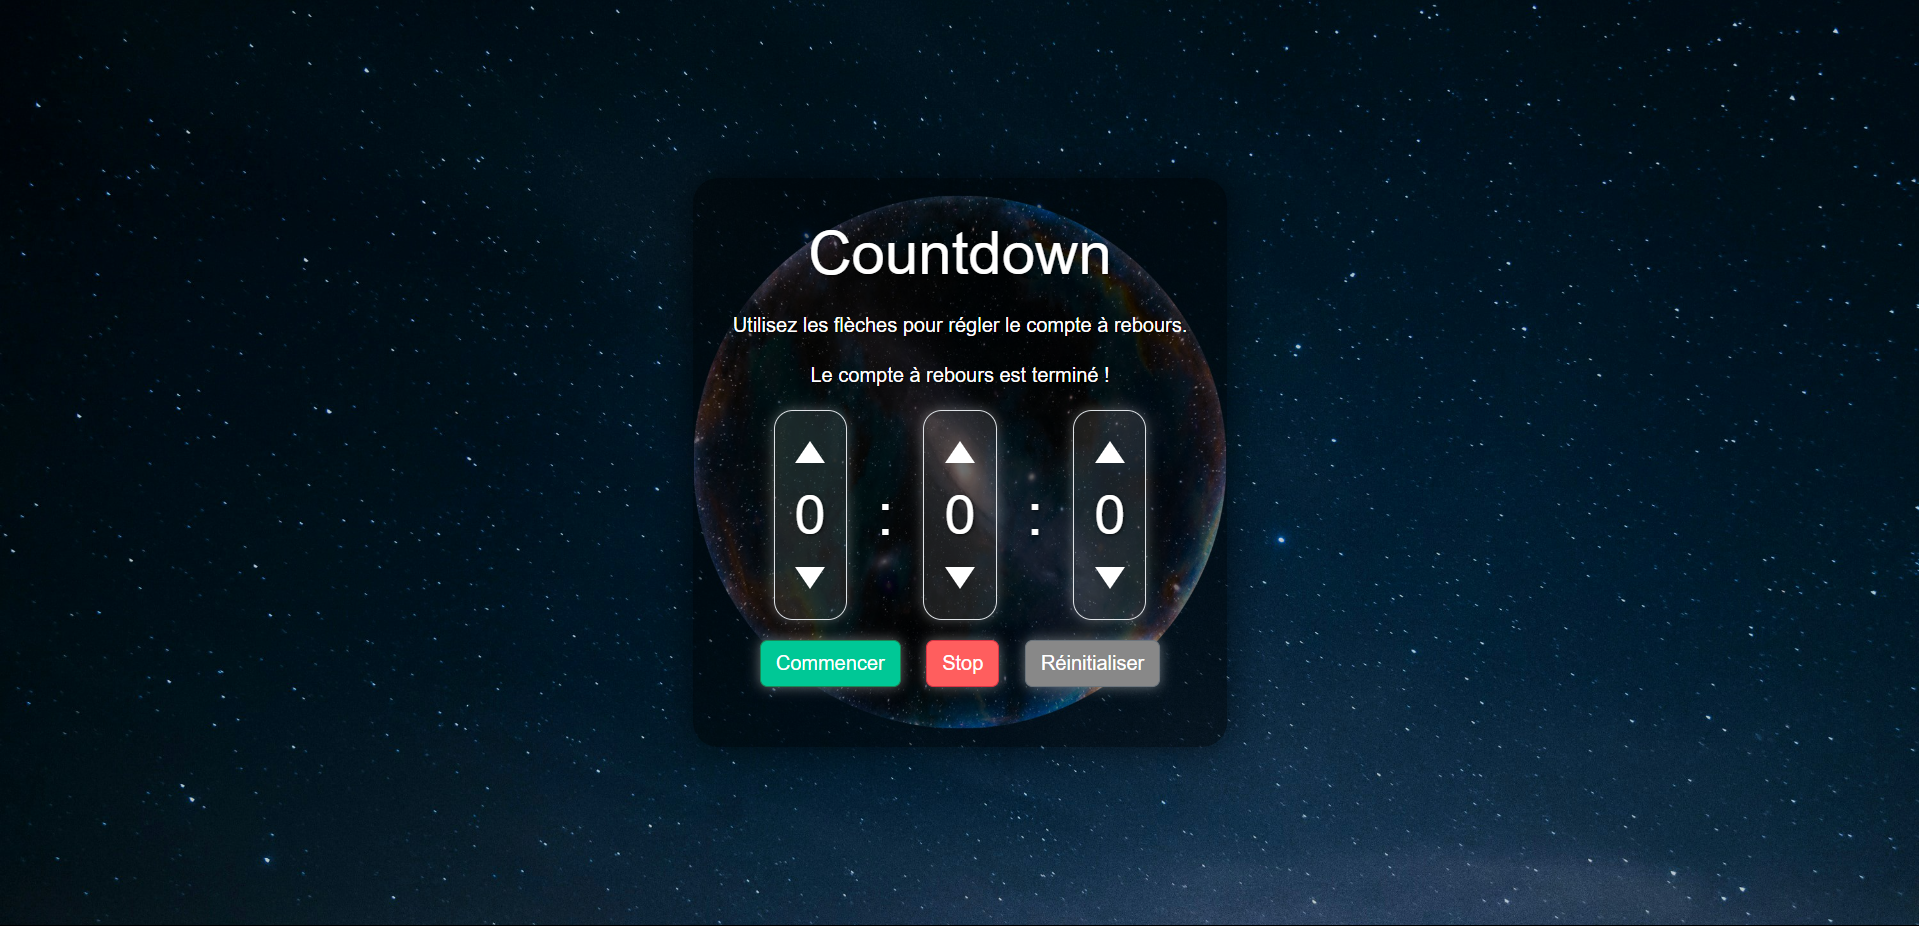
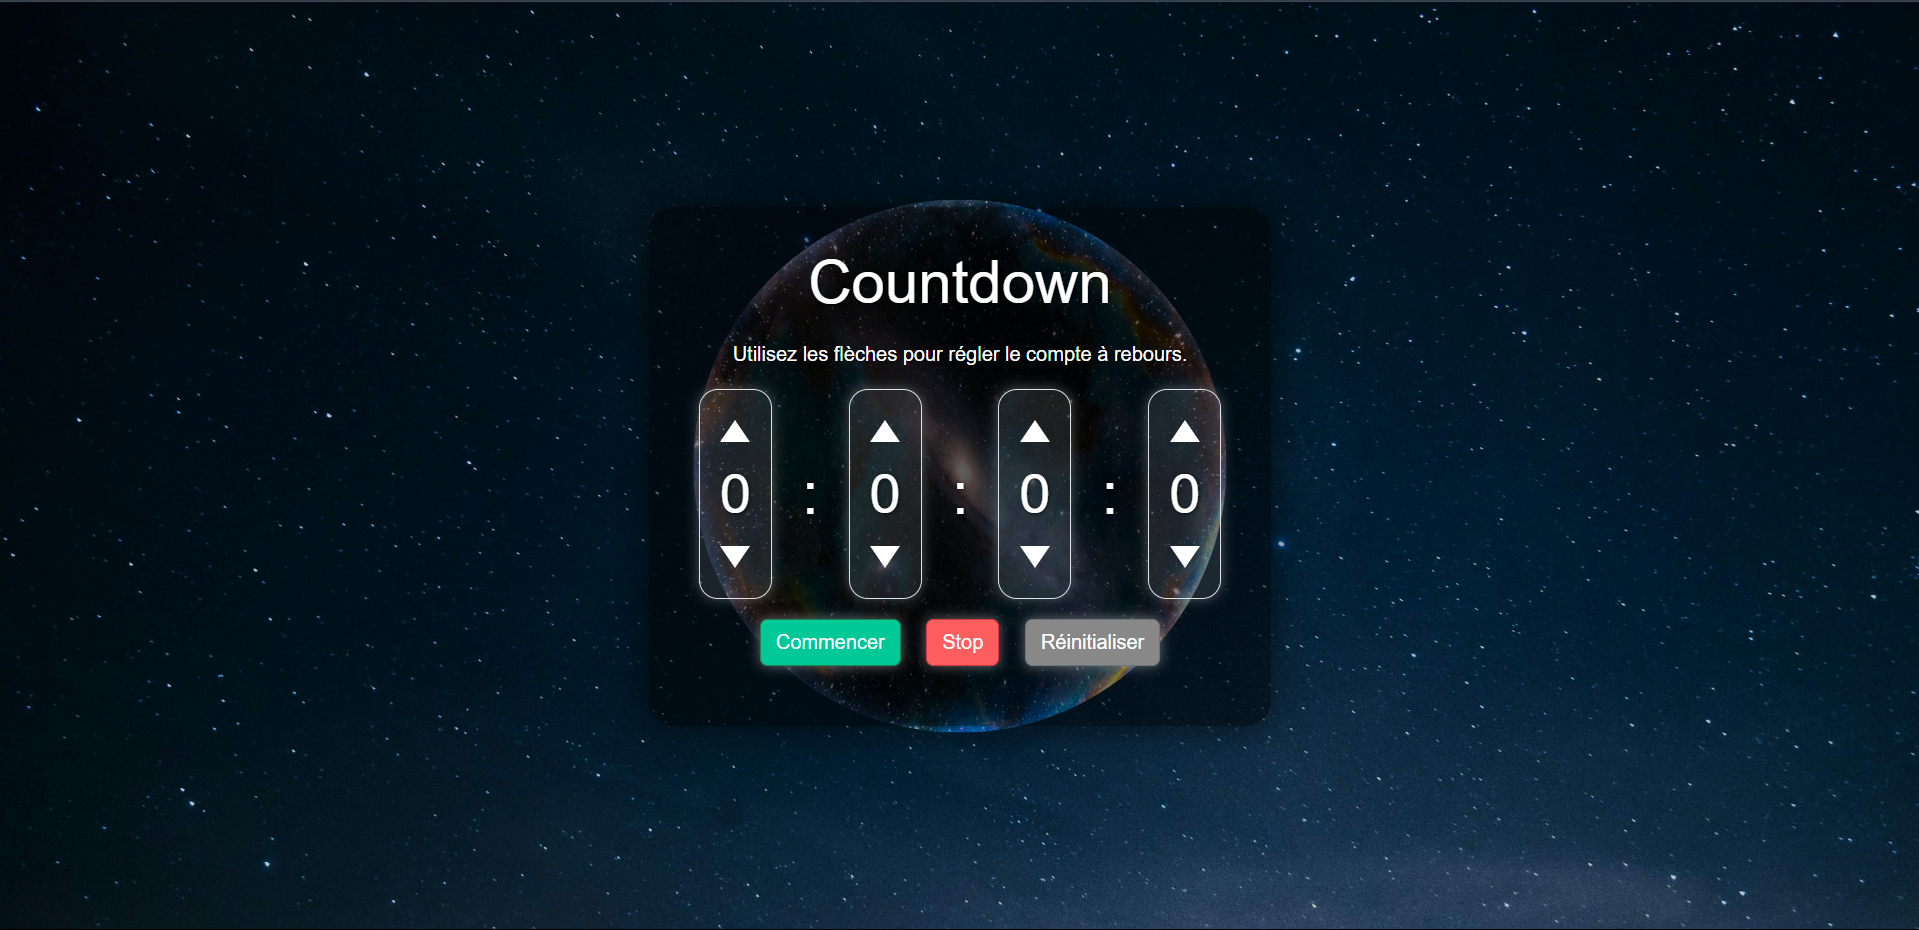
Ajout de jour

diff --git a/scripts/index.js b/scripts/index.js
@@ -1,3 +1,5 @@
+const arrow_up_day = document.getElementById('arrow-up-day');
+const arrow_down_day = document.getElementById('arrow-down-day');
 const arrow_up_hour = document.getElementById('arrow-up-hour');
 const arrow_down_hour = document.getElementById('arrow-down-hour');
 const arrow_up_minute = document.getElementById('arrow-up-minutes');
@@ -7,12 +9,29 @@ const arrow_down_second = document.getElementById('arrow-down-seconds');
 const start = document.getElementById('start');
 const stop = document.getElementById('stop');
 const reset = document.getElementById('reset');
+let days = document.getElementById('number-days');
 let hours = document.getElementById('number-hours');
 let minutes = document.getElementById('number-minutes');
 let seconds = document.getElementById('number-seconds');
 let countdown_finished = document.getElementById('countdown-finished');
 
-// Flèches pour ajouter heures
+// Flèches pour ajouter des jours
+arrow_up_day.addEventListener('click', () => {
+  days.textContent = String(parseInt(days.textContent) + 1);
+  if (parseInt(days.textContent) > 366) {
+    days.textContent = '0';
+  }
+});
+
+// Flèches pour retirer des jours
+arrow_down_day.addEventListener('click', () => {
+  days.textContent = String(parseInt(days.textContent) - 1);
+  if (parseInt(days.textContent) < 0) {
+    days.textContent = '366';
+  }
+});
+
+// Flèches pour ajouter des heures
 arrow_up_hour.addEventListener('click', () => {
   hours.textContent = String(parseInt(hours.textContent) + 1);
   if (parseInt(hours.textContent) > 23) {
@@ -20,7 +39,7 @@ arrow_up_hour.addEventListener('click', () => {
   }
 });
 
-// Flèches pour retirer heures
+// Flèches pour retirer des heures
 arrow_down_hour.addEventListener('click', () => {
   hours.textContent = String(parseInt(hours.textContent) - 1);
   if (parseInt(hours.textContent) < 0) {
@@ -28,7 +47,7 @@ arrow_down_hour.addEventListener('click', () => {
   }
 });
 
-// Flèches pour ajouter minutes
+// Flèches pour ajouter des minutes
 arrow_up_minute.addEventListener('click', () => {
   minutes.textContent = String(parseInt(minutes.textContent) + 1);
   if (parseInt(minutes.textContent) > 59) {
@@ -36,7 +55,7 @@ arrow_up_minute.addEventListener('click', () => {
   }
 });
 
-// Flèches pour retirer minutes
+// Flèches pour retirer des minutes
 arrow_down_minute.addEventListener('click', () => {
   minutes.textContent = String(parseInt(minutes.textContent) - 1);
   if (parseInt(minutes.textContent) < 0) {
@@ -44,7 +63,7 @@ arrow_down_minute.addEventListener('click', () => {
   }
 });
 
-// Flèches pour ajouter secondes
+// Flèches pour ajouter des secondes
 arrow_up_second.addEventListener('click', () => {
   seconds.textContent = String(parseInt(seconds.textContent) + 1);
   if (parseInt(seconds.textContent) > 59) {
@@ -52,7 +71,7 @@ arrow_up_second.addEventListener('click', () => {
   }
 });
 
-// Flèches pour retirer secondes
+// Flèches pour retirer des secondes
 arrow_down_second.addEventListener('click', () => {
   seconds.textContent = String(parseInt(seconds.textContent) - 1);
   if (parseInt(seconds.textContent) < 0) {
@@ -74,6 +93,11 @@ start.addEventListener('click', () => {
       hours.textContent = String(parseInt(hours.textContent) - 1);
       minutes.textContent = '59';
       seconds.textContent = '59';
+    } else if (parseInt(days.textContent) > 0) {
+      days.textContent = String(parseInt(days.textContent) - 1);
+      hours.textContent = '23';
+      minutes.textContent = '59';
+      seconds.textContent = '59';
     } else {
       clearInterval(countdownInterval);
       countdownInterval = null;
@@ -92,6 +116,7 @@ stop.addEventListener('click', () => {
 reset.addEventListener('click', () => {
   clearInterval(countdownInterval);
   countdownInterval = null;
+  days.textContent = '0';
   hours.textContent = '0';
   minutes.textContent = '0';
   seconds.textContent = '0';

diff --git a/index.html b/index.html
@@ -16,6 +16,34 @@
         <p>Utilisez les flèches pour régler le compte à rebours.</p>
         <p id="countdown-finished"></p>
         <div class="countdown">
+            <!-- Jours -->
+            <div class="border">
+                <!-- Flèche haut -->
+                <section class="arrows arrows-up" id="arrow-up-day">
+                    <!-- Flèche haut (Contenue) -->
+                    <article><i class="arrow up"></i></article>
+                </section>
+
+                <!-- Numéro des jours -->
+                <section class="number">
+                    <!-- Bordure -->
+                    <article></article>
+
+                    <!-- Numéro des jours (Contenue) -->
+                    <article><p name="number-days" id="number-days">0</p></article>  
+                </section>
+
+                <!-- Flèche bas -->
+                <section class="arrows arrows-down" id="arrow-down-day">
+                    <!-- Flèche bas (Contenue) -->
+                    <article><i class="arrow down"></i></article>
+                    
+                </section>
+            </div>
+
+            <!-- Séparateur -->
+            <section class="letters"><p>:</p></section>
+            
             <!-- Heures -->
             <div class="border">
                 <!-- Flèche haut -->

diff --git a/README.md b/README.md
@@ -13,14 +13,15 @@ Un petit projet de **compte à rebours** simple et efficace, réalisé avec HTML
 ## Structure du projet
 
 ```
-index.html
-Readme.md
 scripts/
     index.js
 styles/
     index.css
     images/
         background.jpg
+        rendu_countdown.png
+index.html
+README.md
 ```
 
 ## Technologies utilisées
